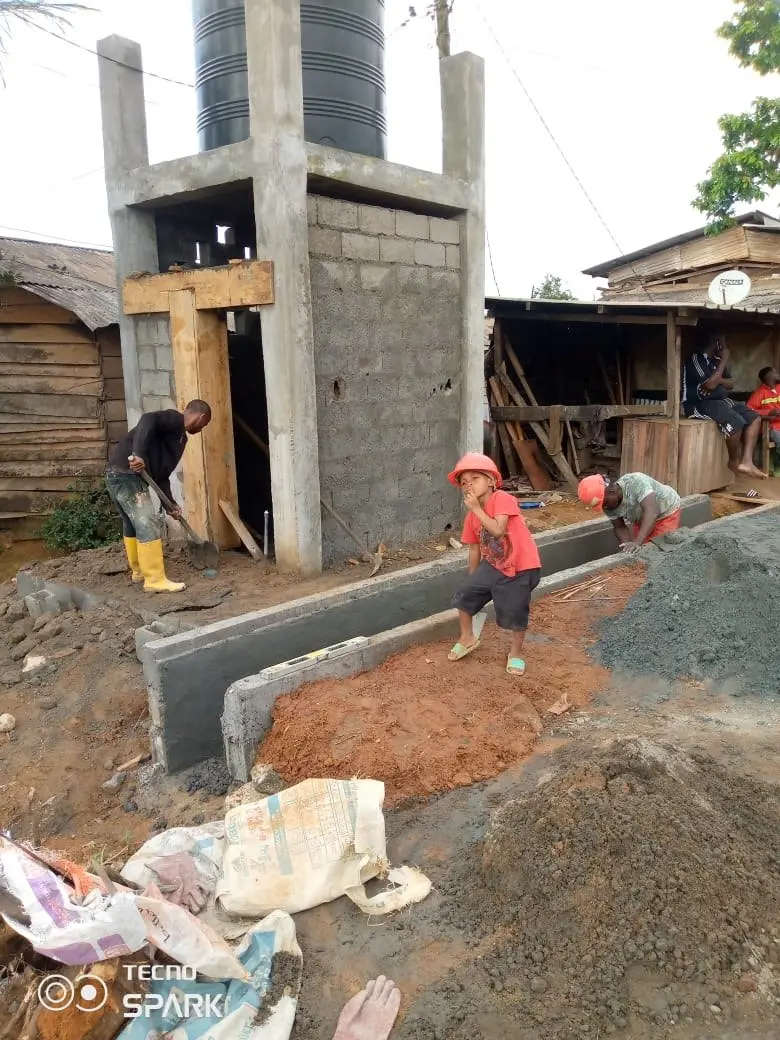
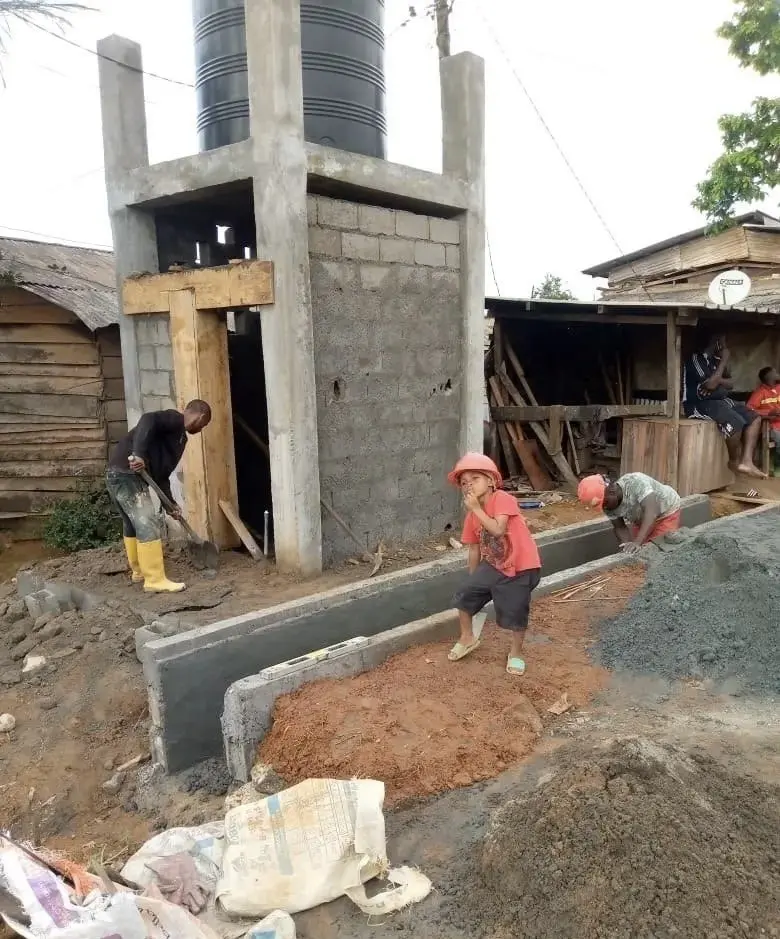
feat: refresh gallery images

diff --git a/src/data/pages.ts b/src/data/pages.ts
@@ -42,8 +42,8 @@ const pages = {
       values: ['Fiabilité', 'Expertise maritime', 'Réactivité', 'Conformité'],
     },
     zones: { title: 'Nos zones d’intervention', description: 'Douala, Kribi, Limbé et les corridors de la zone CEMAC.', heading: 'Une présence au plus près des opérations', ports: [{ city: 'Douala', text: 'Siège à Bonapriso et interventions au principal port polyvalent du Cameroun.' }, { city: 'Kribi', text: 'Accompagnement des escales et projets liés au port en eau profonde.' }, { city: 'Limbé', text: 'Interventions adaptées aux activités énergétiques et maritimes de la façade ouest.' }, { city: 'Zone CEMAC', text: 'Coordination des flux de transit vers les pays de l’hinterland.' }] },
-    gallery: { title: 'Galerie', description: 'Les opérations et équipes COST en images.', heading: 'Nos opérations sur le terrain', notice: 'Découvrez les opérations, infrastructures et équipes qui accompagnent les flux maritimes et logistiques.', items: ['Opérations maritimes', 'Escale portuaire', 'Manutention', 'Transport routier', 'Installations pétrolières', 'Terminal à conteneurs', 'Opérations portuaires'], socialLinkTitle: 'Nos actions sociales', socialLinkText: 'COST agit aux côtés des communautés. Découvrez en images la réalisation d’un point d’eau communautaire.', socialLinkLabel: 'Voir la galerie' },
-    socialGallery: { title: 'Actions sociales', description: 'Les actions sociales menées par COST aux côtés des communautés locales.', eyebrow: 'Engagement communautaire', heading: 'Un point d’eau pour la communauté', notice: 'De l’installation de l’équipement de forage à l’aménagement du point d’eau, découvrez les étapes de cette action menée sur le terrain.', backLabel: 'Retour à la galerie', items: ['Construction de l’abri du point d’eau', 'Aménagement des abords', 'Installation du bassin et de la pompe', 'Mise en place de l’équipement de forage', 'Travaux de forage sur le terrain', 'Engin mobilisé pour le forage', 'Équipe au travail sur le chantier', 'Suivi des travaux avec la communauté'] },
+    gallery: { title: 'Galerie', description: 'Les opérations et équipes COST en images.', heading: 'Nos opérations sur le terrain', notice: 'Découvrez les opérations, infrastructures et équipes qui accompagnent les flux maritimes et logistiques.', items: ['Opérations maritimes', 'Escale portuaire', 'Manutention', 'Installations pétrolières', 'Terminal à conteneurs', 'Opérations portuaires'], socialLinkTitle: 'Nos actions sociales', socialLinkText: 'COST agit aux côtés des communautés. Découvrez en images la réalisation d’un point d’eau communautaire.', socialLinkLabel: 'Voir la galerie' },
+    socialGallery: { title: 'Actions sociales', description: 'Les actions sociales menées par COST aux côtés des communautés locales.', eyebrow: 'Engagement communautaire', heading: 'Un point d’eau pour la communauté', notice: 'De l’installation de l’équipement de forage à l’aménagement du point d’eau, découvrez les étapes de cette action menée sur le terrain.', backLabel: 'Retour à la galerie', items: ['Construction de l’abri du point d’eau', 'Installation du bassin et de la pompe', 'Travaux de forage sur le terrain', 'Aménagement des abords', 'Mise en place de l’équipement de forage', 'Suivi des travaux avec la communauté', 'Équipe au travail sur le chantier'] },
     contact: { 
       title: 'Contact', 
       description: 'Contactez COST pour votre prochaine opération maritime ou portuaire au Cameroun.', 
@@ -88,8 +88,8 @@ const pages = {
     },
     about: { title: 'About COST', description: 'Maritime and port expertise rooted in Cameroon.', heading: 'A local partner for maritime operations', paragraphs: ['COST — Cameroon Oil Shipping & Trading — supports shipowners, charterers and energy-sector operators throughout their maritime and port operations in Central Africa.', 'Our role is to simplify port calls, coordinate stakeholders and provide transparent operational reporting from preparation through completion.'], values: ['Reliability', 'Maritime expertise', 'Responsiveness', 'Compliance'] },
     zones: { title: 'Our locations', description: 'Douala, Kribi, Limbe and CEMAC corridors.', heading: 'Close to every operation', ports: [{ city: 'Douala', text: 'Bonapriso headquarters and operations at Cameroon’s main multipurpose port.' }, { city: 'Kribi', text: 'Port call and project support at the deep-water port.' }, { city: 'Limbe', text: 'Services tailored to energy and maritime operations on the western coast.' }] },
-    gallery: { title: 'Gallery', description: 'COST operations and teams in pictures.', heading: 'Our field operations', notice: 'Explore the operations, infrastructure and teams supporting maritime and logistics flows.', items: ['Maritime operations', 'Port calls', 'Cargo handling', 'Road transport', 'Oil terminals', 'Container terminal', 'Port operations'], socialLinkTitle: 'Our social initiatives', socialLinkText: 'COST works alongside local communities. See the construction of a community water point in pictures.', socialLinkLabel: 'View the gallery' },
-    socialGallery: { title: 'Social initiatives', description: 'COST social initiatives carried out alongside local communities.', eyebrow: 'Community commitment', heading: 'A water point for the community', notice: 'From installing the drilling equipment to completing the water point, explore each stage of this field initiative.', backLabel: 'Back to the gallery', items: ['Building the water point shelter', 'Preparing the surrounding area', 'Installing the basin and pump', 'Setting up the drilling equipment', 'Drilling work on site', 'Drilling rig deployed on site', 'Team at work on the site', 'Monitoring the work with the community'] },
+    gallery: { title: 'Gallery', description: 'COST operations and teams in pictures.', heading: 'Our field operations', notice: 'Explore the operations, infrastructure and teams supporting maritime and logistics flows.', items: ['Maritime operations', 'Port calls', 'Cargo handling', 'Oil terminals', 'Container terminal', 'Port operations'], socialLinkTitle: 'Our social initiatives', socialLinkText: 'COST works alongside local communities. See the construction of a community water point in pictures.', socialLinkLabel: 'View the gallery' },
+    socialGallery: { title: 'Social initiatives', description: 'COST social initiatives carried out alongside local communities.', eyebrow: 'Community commitment', heading: 'A water point for the community', notice: 'From installing the drilling equipment to completing the water point, explore each stage of this field initiative.', backLabel: 'Back to the gallery', items: ['Building the water point shelter', 'Installing the basin and pump', 'Drilling work on site', 'Preparing the surrounding area', 'Setting up the drilling equipment', 'Monitoring the work with the community', 'Team at work on the site'] },
      contact: { 
       title: 'Contact', 
       description: 'Contact COST about your next maritime or port operation in Cameroon.', 

diff --git a/src/data/gallery.ts b/src/data/gallery.ts
@@ -1,23 +1,20 @@
 /** Images de la galerie : dépose les fichiers correspondants dans public/images/gallery/. */
 export const galleryAssets = [
-  { src: '/images/gallery/01-operations-maritimes.webp' },
-  { src: '/images/gallery/02-escale-portuaire.webp' },
-  { src: '/images/gallery/03-manutention.webp' },
-  { src: '/images/gallery/04-transport-routier.webp' },
-  { src: '/images/gallery/05-installations-petrolieres.webp' },
-  { src: '/images/gallery/06-terminal-conteneurs.webp' },
-  { src: '/images/gallery/07-operations-portuaires.webp' },
-  { src: '/images/gallery/08-logistique-cemac.webp' },
+  { src: '/images/gallery/01-operations-maritimes_1.webp' },
+  { src: '/images/gallery/02-escale-portuaire_2.webp' },
+  { src: '/images/gallery/03-manutention_3.webp' },
+  { src: '/images/gallery/05-installations-petrolieres_4.webp' },
+  { src: '/images/gallery/06-terminal-conteneurs_5.webp' },
+  { src: '/images/gallery/07-operations-portuaires_6.webp' },
 ] as const;
 
 /** Photos des actions sociales de COST, optimisées au format WebP. */
 export const socialActionGalleryAssets = [
-  { src: '/images/gallery_action_social/01-construction-point-eau.webp', width: 780, height: 1040 },
-  { src: '/images/gallery_action_social/02-amenagement-point-eau.webp', width: 780, height: 1040 },
-  { src: '/images/gallery_action_social/03-bassin-point-eau.webp', width: 780, height: 1040 },
-  { src: '/images/gallery_action_social/04-forage-communautaire.webp', width: 780, height: 1040 },
-  { src: '/images/gallery_action_social/05-travaux-forage.webp', width: 780, height: 1040 },
-  { src: '/images/gallery_action_social/06-engin-forage.webp', width: 720, height: 1280 },
+  { src: '/images/gallery_action_social/01-construction-point-eau.webp', width: 780, height: 939 },
+  { src: '/images/gallery_action_social/02-bassin-point-eau.webp', width: 780, height: 943 },
+  { src: '/images/gallery_action_social/03-travaux-forage.webp', width: 780, height: 949 },
+  { src: '/images/gallery_action_social/04-amenagement-point-eau.webp', width: 780, height: 959 },
+  { src: '/images/gallery_action_social/05-forage-communautaire.webp', width: 780, height: 941 },
+  { src: '/images/gallery_action_social/06-suivi-travaux.webp', width: 780, height: 930 },
   { src: '/images/gallery_action_social/07-equipe-chantier.webp', width: 720, height: 1280 },
-  { src: '/images/gallery_action_social/08-suivi-travaux.webp', width: 780, height: 1040 },
 ] as const;
